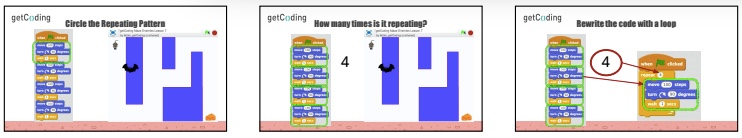
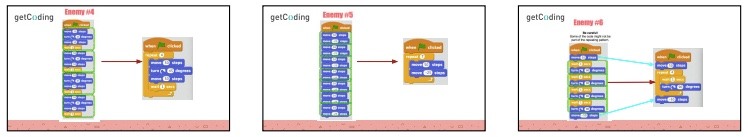
Lesson 8 worksheet
Added link to lesson 8 worksheet and slides of additional practice
problems

diff --git a/developer/level-1/lesson-plans/Lesson-8/lesson.md b/developer/level-1/lesson-plans/Lesson-8/lesson.md
@@ -122,11 +122,14 @@ In this lesson students identify repeating patterns in a sequence and replace th
 > > "This is what the enemy looks like when we run our code in Scratch."
 <br/>
 
+- [ ] Students practice the same process with enemies 4, 5, and 6 on their handouts.
+
 <strong>Slides</strong>
 
 ![slides1](./images/slides-loops1.jpeg)
 ![slides2](./images/slides-loops2.jpeg)
+![slides3](./images/slides-loops3.jpeg)
 </notable>
 
 [slide-show]: https://docs.google.com/presentation/d/1qY2UHzrIAYHKvO47l1gtxVDtr68lObRKzMVWHIrS888/edit?usp=sharing
-[code-handouts]: something
+[code-handouts]: https://drive.google.com/file/d/0B2wBzr9vcXjPbmZZRHVNVTcwM2M/view?usp=sharing
